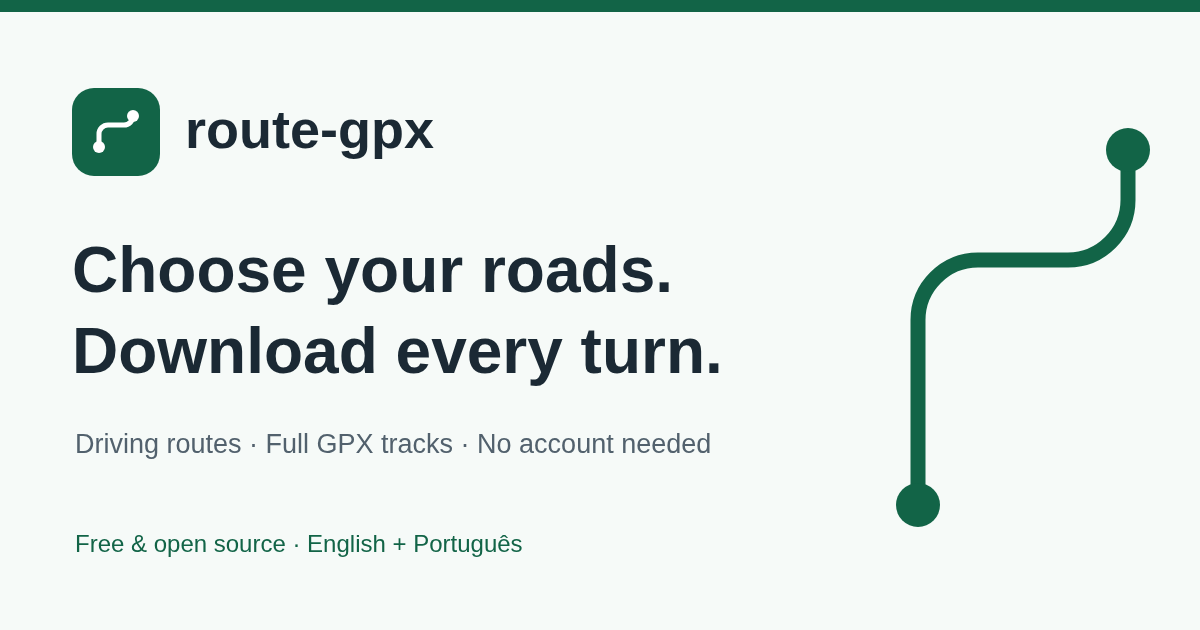
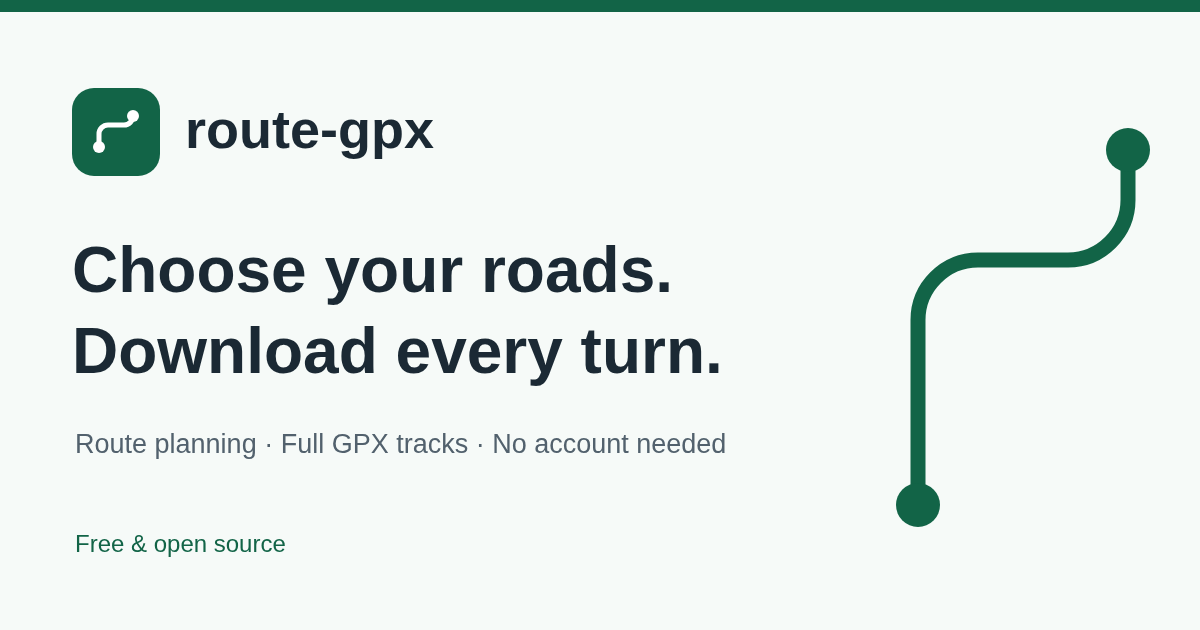
Use neutral route planner wording

Changed region(s): [[0.0617, 0.6635, 0.6167, 0.7238], [0.2467, 0.8444, 0.4317, 0.8746]]

diff --git a/index.html b/index.html
@@ -4,10 +4,10 @@
     <meta charset="UTF-8" />
     <meta name="viewport" content="width=device-width, initial-scale=1" />
     <meta name="theme-color" content="#ffffff" />
-    <title>route-gpx — Driving Route Planner &amp; GPX Export</title>
+    <title>route-gpx — Route Planner &amp; GPX Export</title>
     <meta
       name="description"
-      content="Plan driving routes along real roads, choose stops and download complete GPX tracks. Free, open source, no API key or account needed."
+      content="Plan routes along real roads, choose stops and download complete GPX tracks. Free, open source, no API key or account needed."
     />
     <meta name="robots" content="index, follow, max-image-preview:large" />
     <meta name="application-name" content="route-gpx" />
@@ -20,11 +20,11 @@
     <meta property="og:site_name" content="route-gpx" />
     <meta
       property="og:title"
-      content="route-gpx — Driving Route Planner &amp; GPX Export"
+      content="route-gpx — Route Planner &amp; GPX Export"
     />
     <meta
       property="og:description"
-      content="Plan driving routes along real roads, choose stops and download complete GPX tracks. Free, open source, no API key or account needed."
+      content="Plan routes along real roads, choose stops and download complete GPX tracks. Free, open source, no API key or account needed."
     />
     <meta property="og:url" content="https://t00ls-dev.github.io/route-gpx/" />
     <meta property="og:locale" content="en_US" />
@@ -41,24 +41,24 @@
     <meta name="twitter:card" content="summary_large_image" />
     <meta
       name="twitter:title"
-      content="route-gpx — Driving Route Planner &amp; GPX Export"
+      content="route-gpx — Route Planner &amp; GPX Export"
     />
     <meta
       name="twitter:description"
-      content="Plan driving routes along real roads, choose stops and download complete GPX tracks. Free, open source, no API key or account needed."
+      content="Plan routes along real roads, choose stops and download complete GPX tracks. Free, open source, no API key or account needed."
     />
     <meta
       name="twitter:image"
       content="https://t00ls-dev.github.io/route-gpx/social-card.png"
     />
-    <meta name="twitter:image:alt" content="route-gpx driving route planner" />
+    <meta name="twitter:image:alt" content="route-gpx route planner" />
     <script type="application/ld+json">
       {
         "@context": "https://schema.org",
         "@type": "WebApplication",
         "name": "route-gpx",
         "url": "https://t00ls-dev.github.io/route-gpx/",
-        "description": "Plan driving routes along real roads, choose stops and download complete GPX tracks. Free, open source, no API key or account needed.",
+        "description": "Plan routes along real roads, choose stops and download complete GPX tracks. Free, open source, no API key or account needed.",
         "applicationCategory": "TravelApplication",
         "operatingSystem": "Any",
         "browserRequirements": "Requires JavaScript and an internet connection.",

diff --git a/src/seo.ts b/src/seo.ts
@@ -6,16 +6,16 @@ export function updateSeo(
   const title =
     page === 'app'
       ? pt
-        ? 'route-gpx — Rotas de carro e exportação GPX'
-        : 'route-gpx — Driving Route Planner & GPX Export'
+        ? 'route-gpx — Planejador de rotas e exportação GPX'
+        : 'route-gpx — Route Planner & GPX Export'
       : pt
         ? 'route-gpx — Ajuda para criar e exportar rotas'
         : 'route-gpx — Route Planning & GPX Help';
   const description =
     page === 'app'
       ? pt
-        ? 'Crie rotas de carro pelas ruas, escolha pontos de passagem e baixe o traçado completo em GPX. Grátis, código aberto e sem cadastro.'
-        : 'Plan driving routes along real roads, choose stops and download complete GPX tracks. Free, open source, no API key or account needed.'
+        ? 'Crie rotas pelas ruas, escolha pontos de passagem e baixe o traçado completo em GPX. Grátis, código aberto e sem cadastro.'
+        : 'Plan routes along real roads, choose stops and download complete GPX tracks. Free, open source, no API key or account needed.'
       : pt
         ? 'Aprenda a definir pontos, usar o mapa, importar e exportar GPX, ajustar a velocidade média e compartilhar rotas no route-gpx.'
         : 'Learn to set route points, use the map, import and export GPX, estimate travel time, switch units and share routes with route-gpx.';

diff --git a/tests/metadata.spec.ts b/tests/metadata.spec.ts
@@ -13,10 +13,10 @@ test('SEO metadata stays localized and excludes private route state', async ({
     canonical,
   );
   await page.locator('#language').selectOption('pt');
-  await expect(page).toHaveTitle(/Rotas de carro/);
+  await expect(page).toHaveTitle(/Planejador de rotas/);
   await expect(page.locator('meta[name=description]')).toHaveAttribute(
     'content',
-    /Crie rotas de carro/,
+    /Crie rotas pelas ruas/,
   );
   await expect(page.locator('meta[property="og:locale"]')).toHaveAttribute(
     'content',
@@ -34,7 +34,7 @@ test('SEO metadata stays localized and excludes private route state', async ({
     canonical,
   );
   await page.locator('#language').selectOption('en');
-  await expect(page).toHaveTitle(/Driving Route Planner/);
+  await expect(page).toHaveTitle(/Route Planner/);
   const schema = JSON.parse(
     await page.locator('script[type="application/ld+json"]').innerText(),
   );

diff --git a/help.html b/help.html
@@ -57,7 +57,7 @@
       name="twitter:image"
       content="https://t00ls-dev.github.io/route-gpx/social-card.png"
     />
-    <meta name="twitter:image:alt" content="route-gpx driving route planner" />
+    <meta name="twitter:image:alt" content="route-gpx route planner" />
   </head>
   <body class="help-page">
     <header>

diff --git a/README.md b/README.md
@@ -1,10 +1,10 @@
 # route-gpx
 
-Create driving routes and download the complete road geometry as GPX.
+Create routes and download the complete road geometry as GPX.
 
 [Open the app](https://t00ls-dev.github.io/route-gpx/) · [Português](README.pt-BR.md) · [MIT license](LICENSE)
 
-![route-gpx with the Tijuca to Grumari driving route](docs/screenshot.png)
+![route-gpx with the Tijuca to Grumari route](docs/screenshot.png)
 
 [Mobile view](docs/mobile.png)
 

diff --git a/README.pt-BR.md b/README.pt-BR.md
@@ -1,6 +1,6 @@
 # route-gpx
 
-Crie rotas de carro e baixe o traçado completo pelas ruas em GPX.
+Crie rotas e baixe o traçado completo pelas ruas em GPX.
 
 [Abrir o site](https://t00ls-dev.github.io/route-gpx/) · [English](README.md) · [Licença MIT](LICENSE)
 
